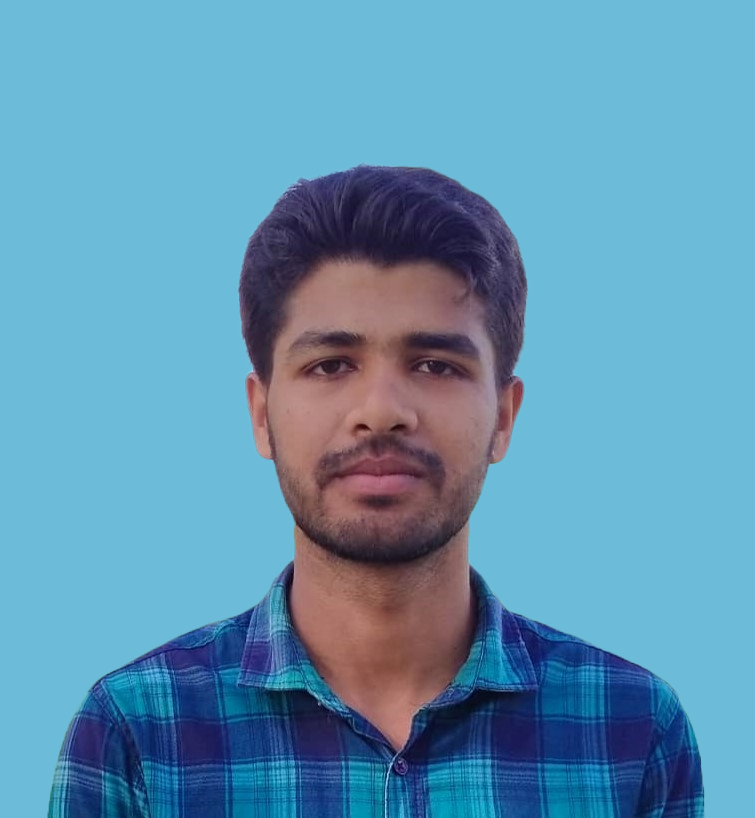
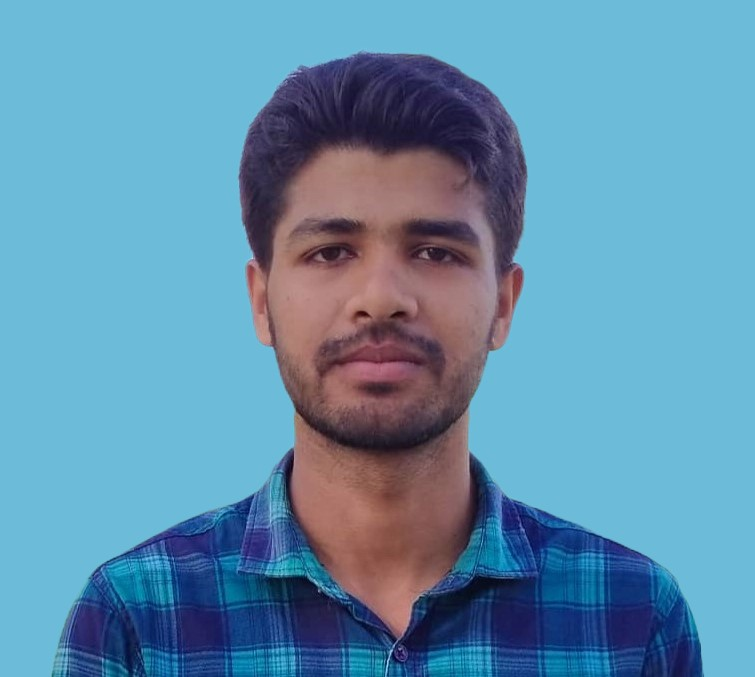
[ADD] profile photo

Changed region(s): [[0.0609, 0.062, 0.9444, 1.0]]

diff --git a/src/components/About.tsx b/src/components/About.tsx
@@ -1,16 +1,20 @@
+import Image from 'next/image'
 import React from 'react'
+import photo from '../../public/profile-photo.jpeg'
 
 function About() {
 	return (
-		<section className='flex py-8 px-10'>
-			<div className="basis-1/2 gap-x-8 ">
-				<h2 className="md:text-[30px]  text-[20px] text-gray-300"><span className=" text-emerald-400 mr-3">01.</span>About</h2>
-				<hr className='w-full  text-gray-300 rounded py-3' />
-				<div className="basis-1/2 flex flex-col gap-y-4 text-gray-400">
-					<p className=" text-[18px] font-normal">Hello! My name is Brittany and I enjoy creating things that live on the internet. My interest in web development started back in 2012 when I decided to try editing custom Tumblr themes — turns out hacking together a custom reblog button taught me a lot about HTML & CSS!</p>
+		<section className='py-8 px-10'>
+			<h2 className="md:text-[30px]  text-[20px] text-gray-300 py-6"><span className=" text-emerald-400 mr-3">01.</span>About</h2>
+			<div className=" flex flex-row gap-x-3 text-gray-300">
+				<div className="basis-2/3 pr-4">
+					<p className="text-[18px] font-normal">Hello! My name is Brittany and I enjoy creating things that live on the internet. My interest in web development started back in 2012 when I decided to try editing custom Tumblr themes — turns out hacking together a custom reblog button taught me a lot about HTML & CSS!</p>
 					<p className=" text-[18px] font-normal">Fast-forward to today, and I’ve had the privilege of working at an advertising agency, a start-up, a huge corporation, and a student-led design studio. My main focus these days is building accessible, inclusive products and digital experiences at Upstatement for a variety of clients.</p>
 				</div>
-				<div className="basis-1/2"></div>
+				<div className="basis-1/3 relative group">
+					<Image src={photo} className='transition delay-150 duration-300  group-hover:ease-in-out rounded-md absolute z-20 bottom-[20px] right-[20px]  group-hover:bottom-6  group-hover:right-6' placeholder='blur' alt='image' />
+					<div className="w-[380px] transition delay-150 duration-300  group-hover:ease-in-out  group-hover:w-[380px]  group-hover:border-emerald-300 h-[340px] border-[3px] rounded-md border-color-sub" />
+				</div>
 			</div>
 		</section>
 	)
